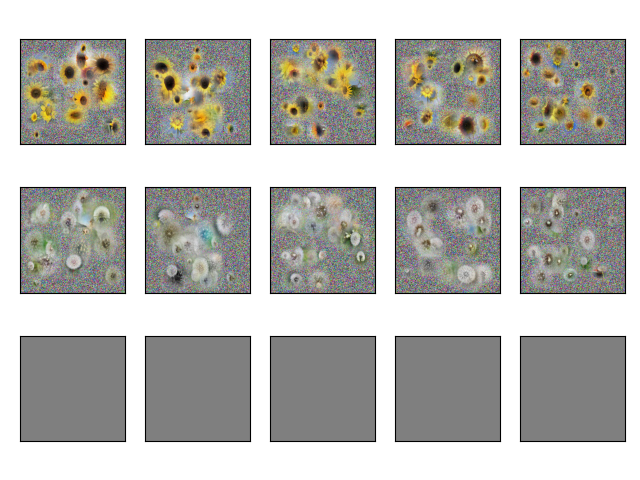
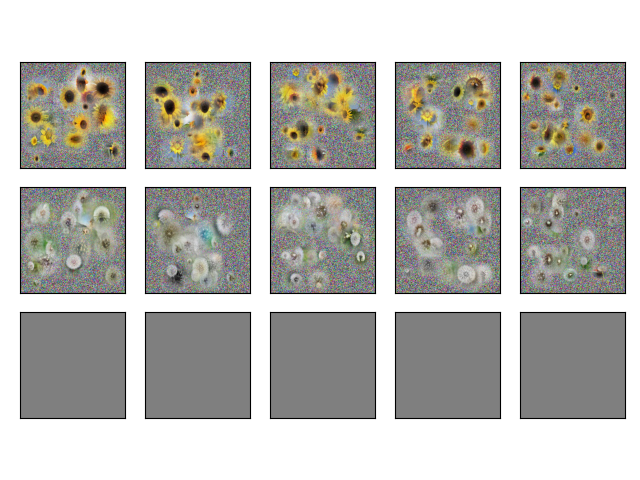
修正

diff --git a/flower/demo_CAE.py b/flower/demo_CAE.py
@@ -24,8 +24,6 @@ def demo(autoEncoder, device, out_path='demo.png'):
     
     regen_images = autoEncoder(torch.stack(src_images))
     n = len(dst_images)
-    # fig = plt.figure(figsize=(12, 9))
-    # fig, axes = plt.subplots(3, n, tight_layout=True)
     fig = plt.figure(num=1, clear=True, tight_layout=True) # memory leak 対策
     axes = fig.subplots(3, n)
     for i in range(0, n):
@@ -35,14 +33,7 @@ def demo(autoEncoder, device, out_path='demo.png'):
         s = ((s*0.5 + 0.5)*255).clip(0, 255)
         d = ((d*0.5 + 0.5)*255).clip(0, 255)
         r = ((r*0.5 + 0.5)*255).clip(0, 255)
-        # plt.subplot(3, n, i+1)
-        # plt.imshow(s.astype(np.uint8).transpose(1,2,0))
 
-        # plt.subplot(3, n, n+i+1)
-        # plt.imshow(d.astype(np.uint8).transpose(1,2,0))
-
-        # plt.subplot(3, n, n*2+i+1)
-        # plt.imshow(r.astype(np.uint8).transpose(1,2,0))
         axes[0, i].set_xticks([])
         axes[1, i].set_xticks([])
         axes[2, i].set_xticks([])
@@ -53,10 +44,7 @@ def demo(autoEncoder, device, out_path='demo.png'):
         axes[1, i].imshow(d.astype(np.uint8).transpose(1,2,0))
         axes[2, i].imshow(r.astype(np.uint8).transpose(1,2,0))
 
-    # plt.savefig(out_path)
     fig.savefig(out_path)
-    # fig.clear()
-    # plt.close(fig)
 
 if __name__ == '__main__':
     device = torch.device("cuda:0" if torch.cuda.is_available() else "cpu")

diff --git a/flower/train_CAE.py b/flower/train_CAE.py
@@ -135,17 +135,14 @@ for epoch in range(num_epochs):
     df.to_csv(osp.join('result', IDENTITY, 'log.csv'))
 
     # lossをプロットして保存
-    # fig, ax = plt.subplots()
-    fig = plt.figure(num=1, clear=True)
+    fig = plt.figure(num=1, clear=True) # memory leak 対策
     ax = fig.subplots()
     x = [a+1 for a in range(epoch+1)]
     ax.plot(x, train_losses, label='train loss')
     ax.plot(x, val_losses, label='val loss')
-    ax.xlabel('epoch')
+    ax.set_xlabel('epoch')
     ax.legend()
     fig.savefig(osp.join('result', IDENTITY, 'loss_plot.pdf'))
-    # fig.clear()
-    # plt.close(fig)
 
     # 変換した画像も保存
     demo(autoEncoder=autoEncoder, device=device, out_path=osp.join('result', IDENTITY, f'demo_{epoch+1}.png'))
